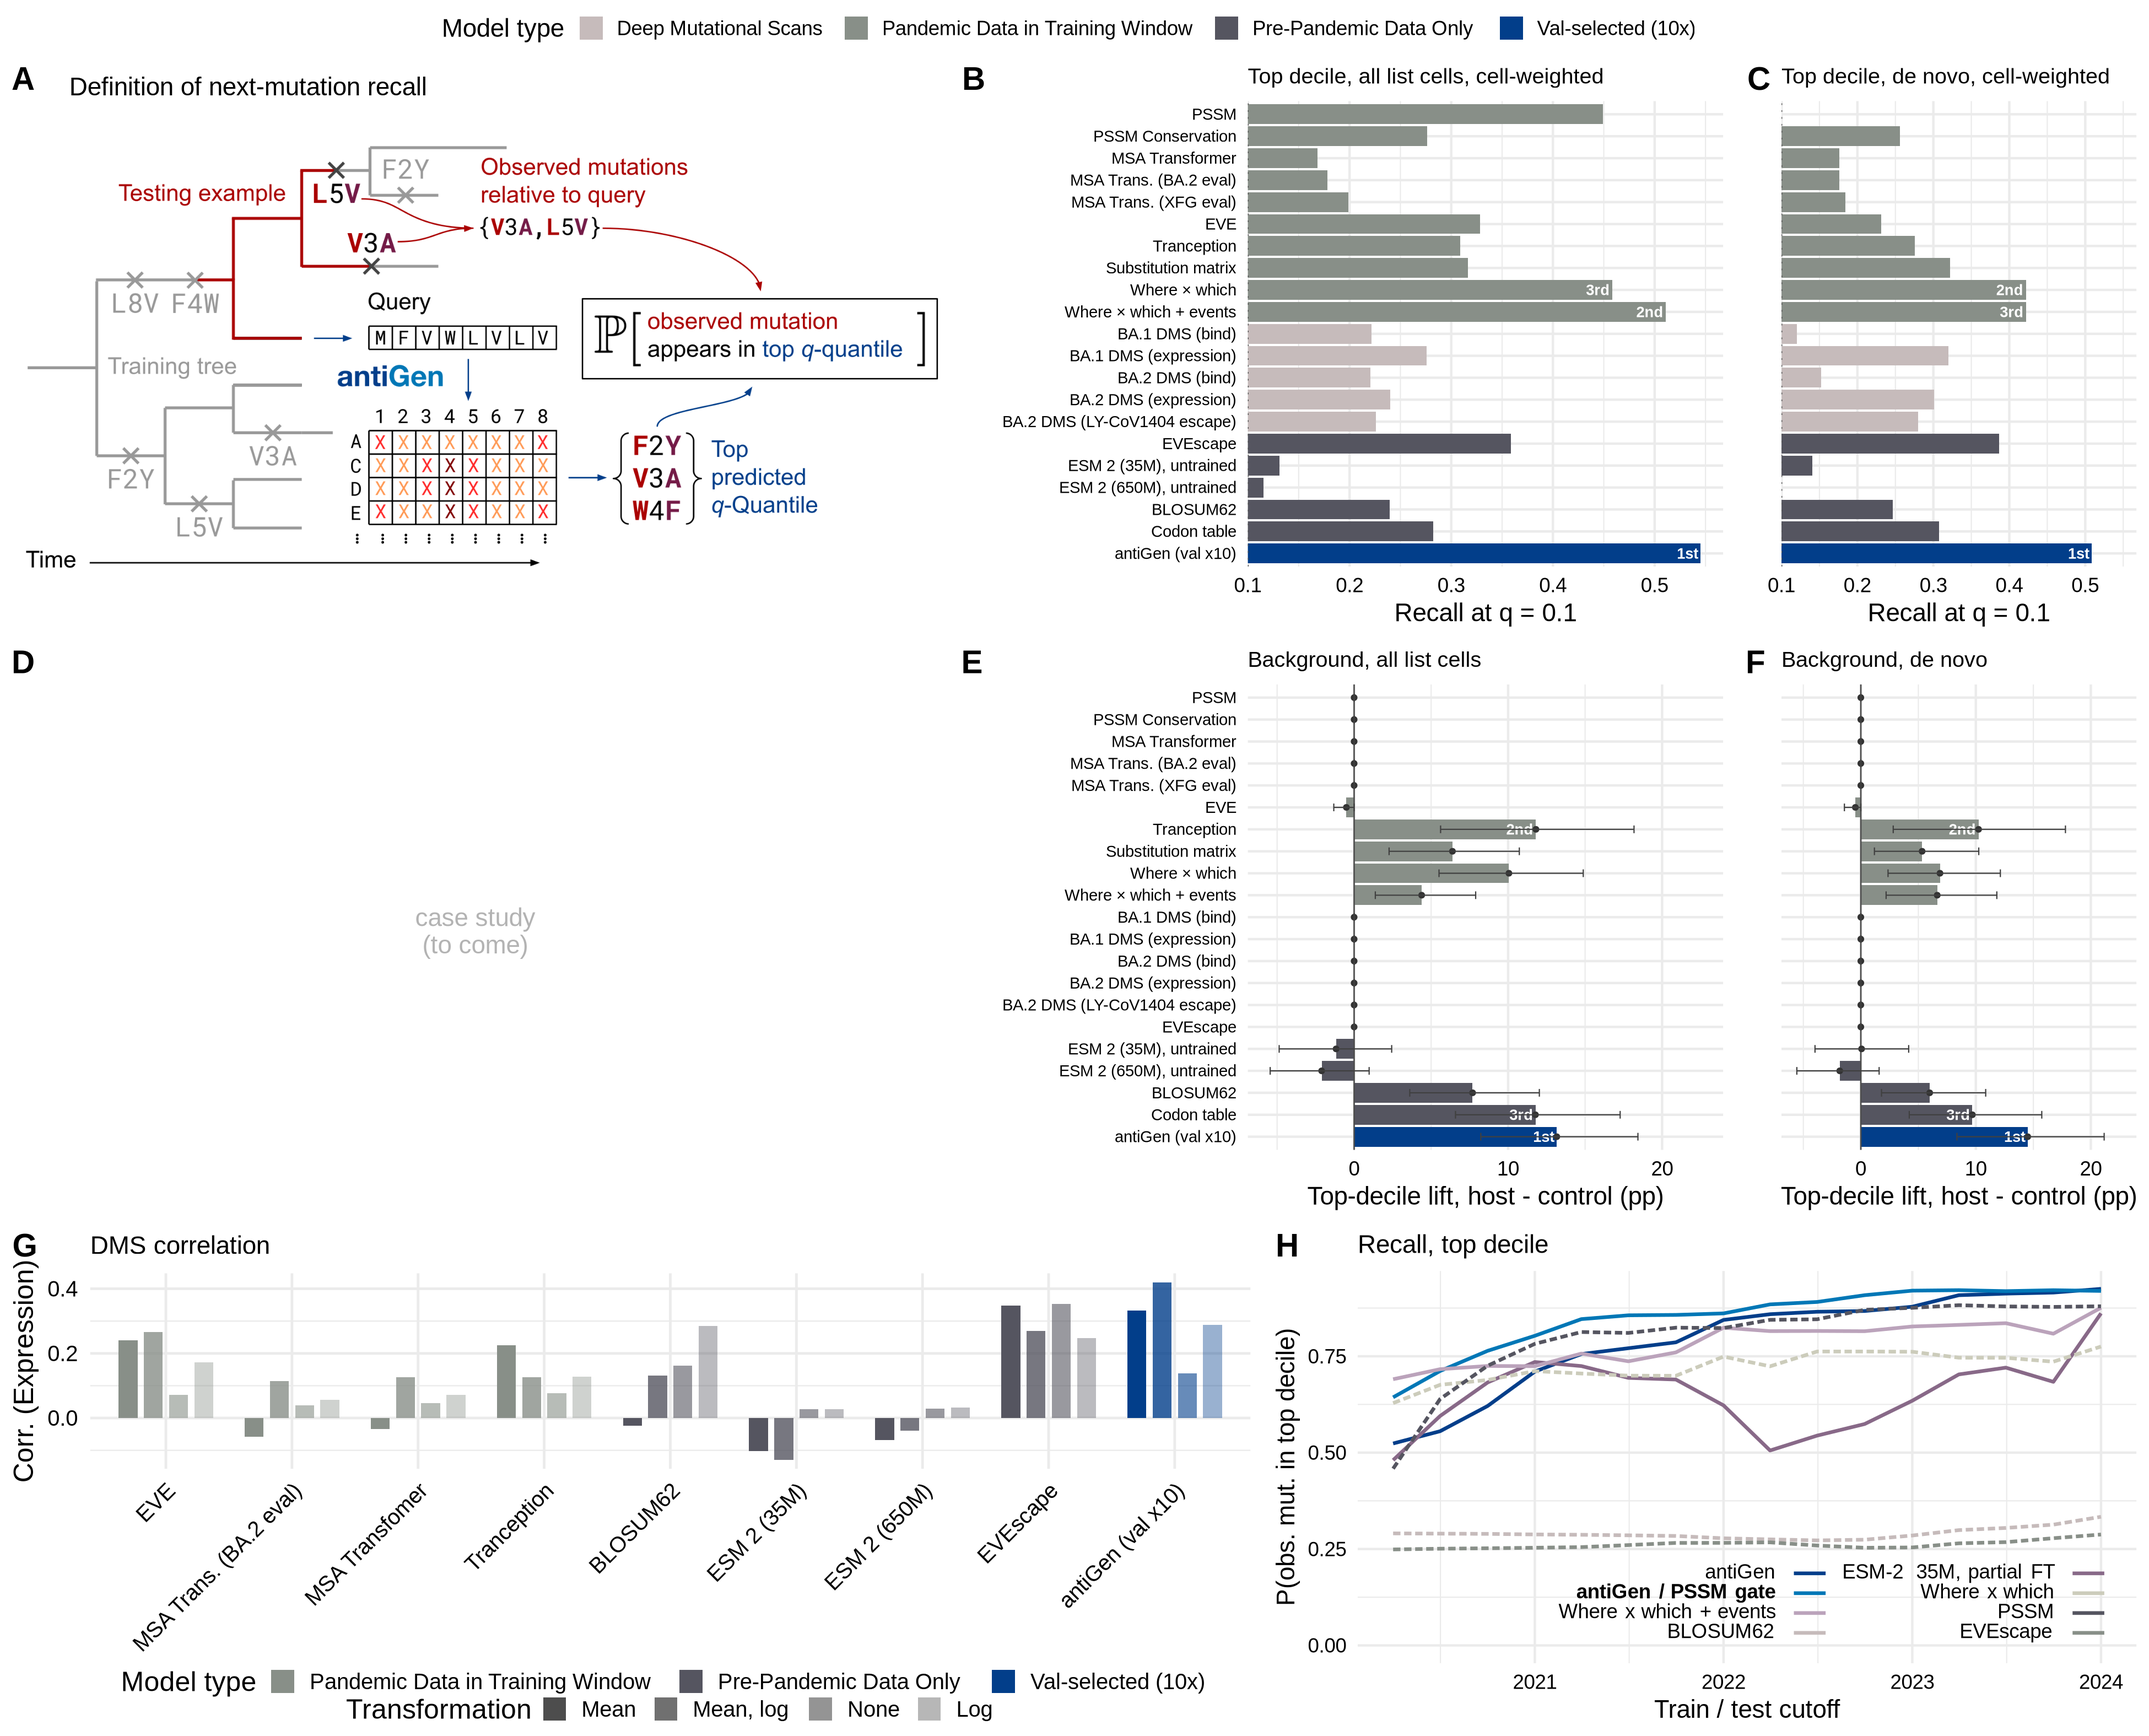
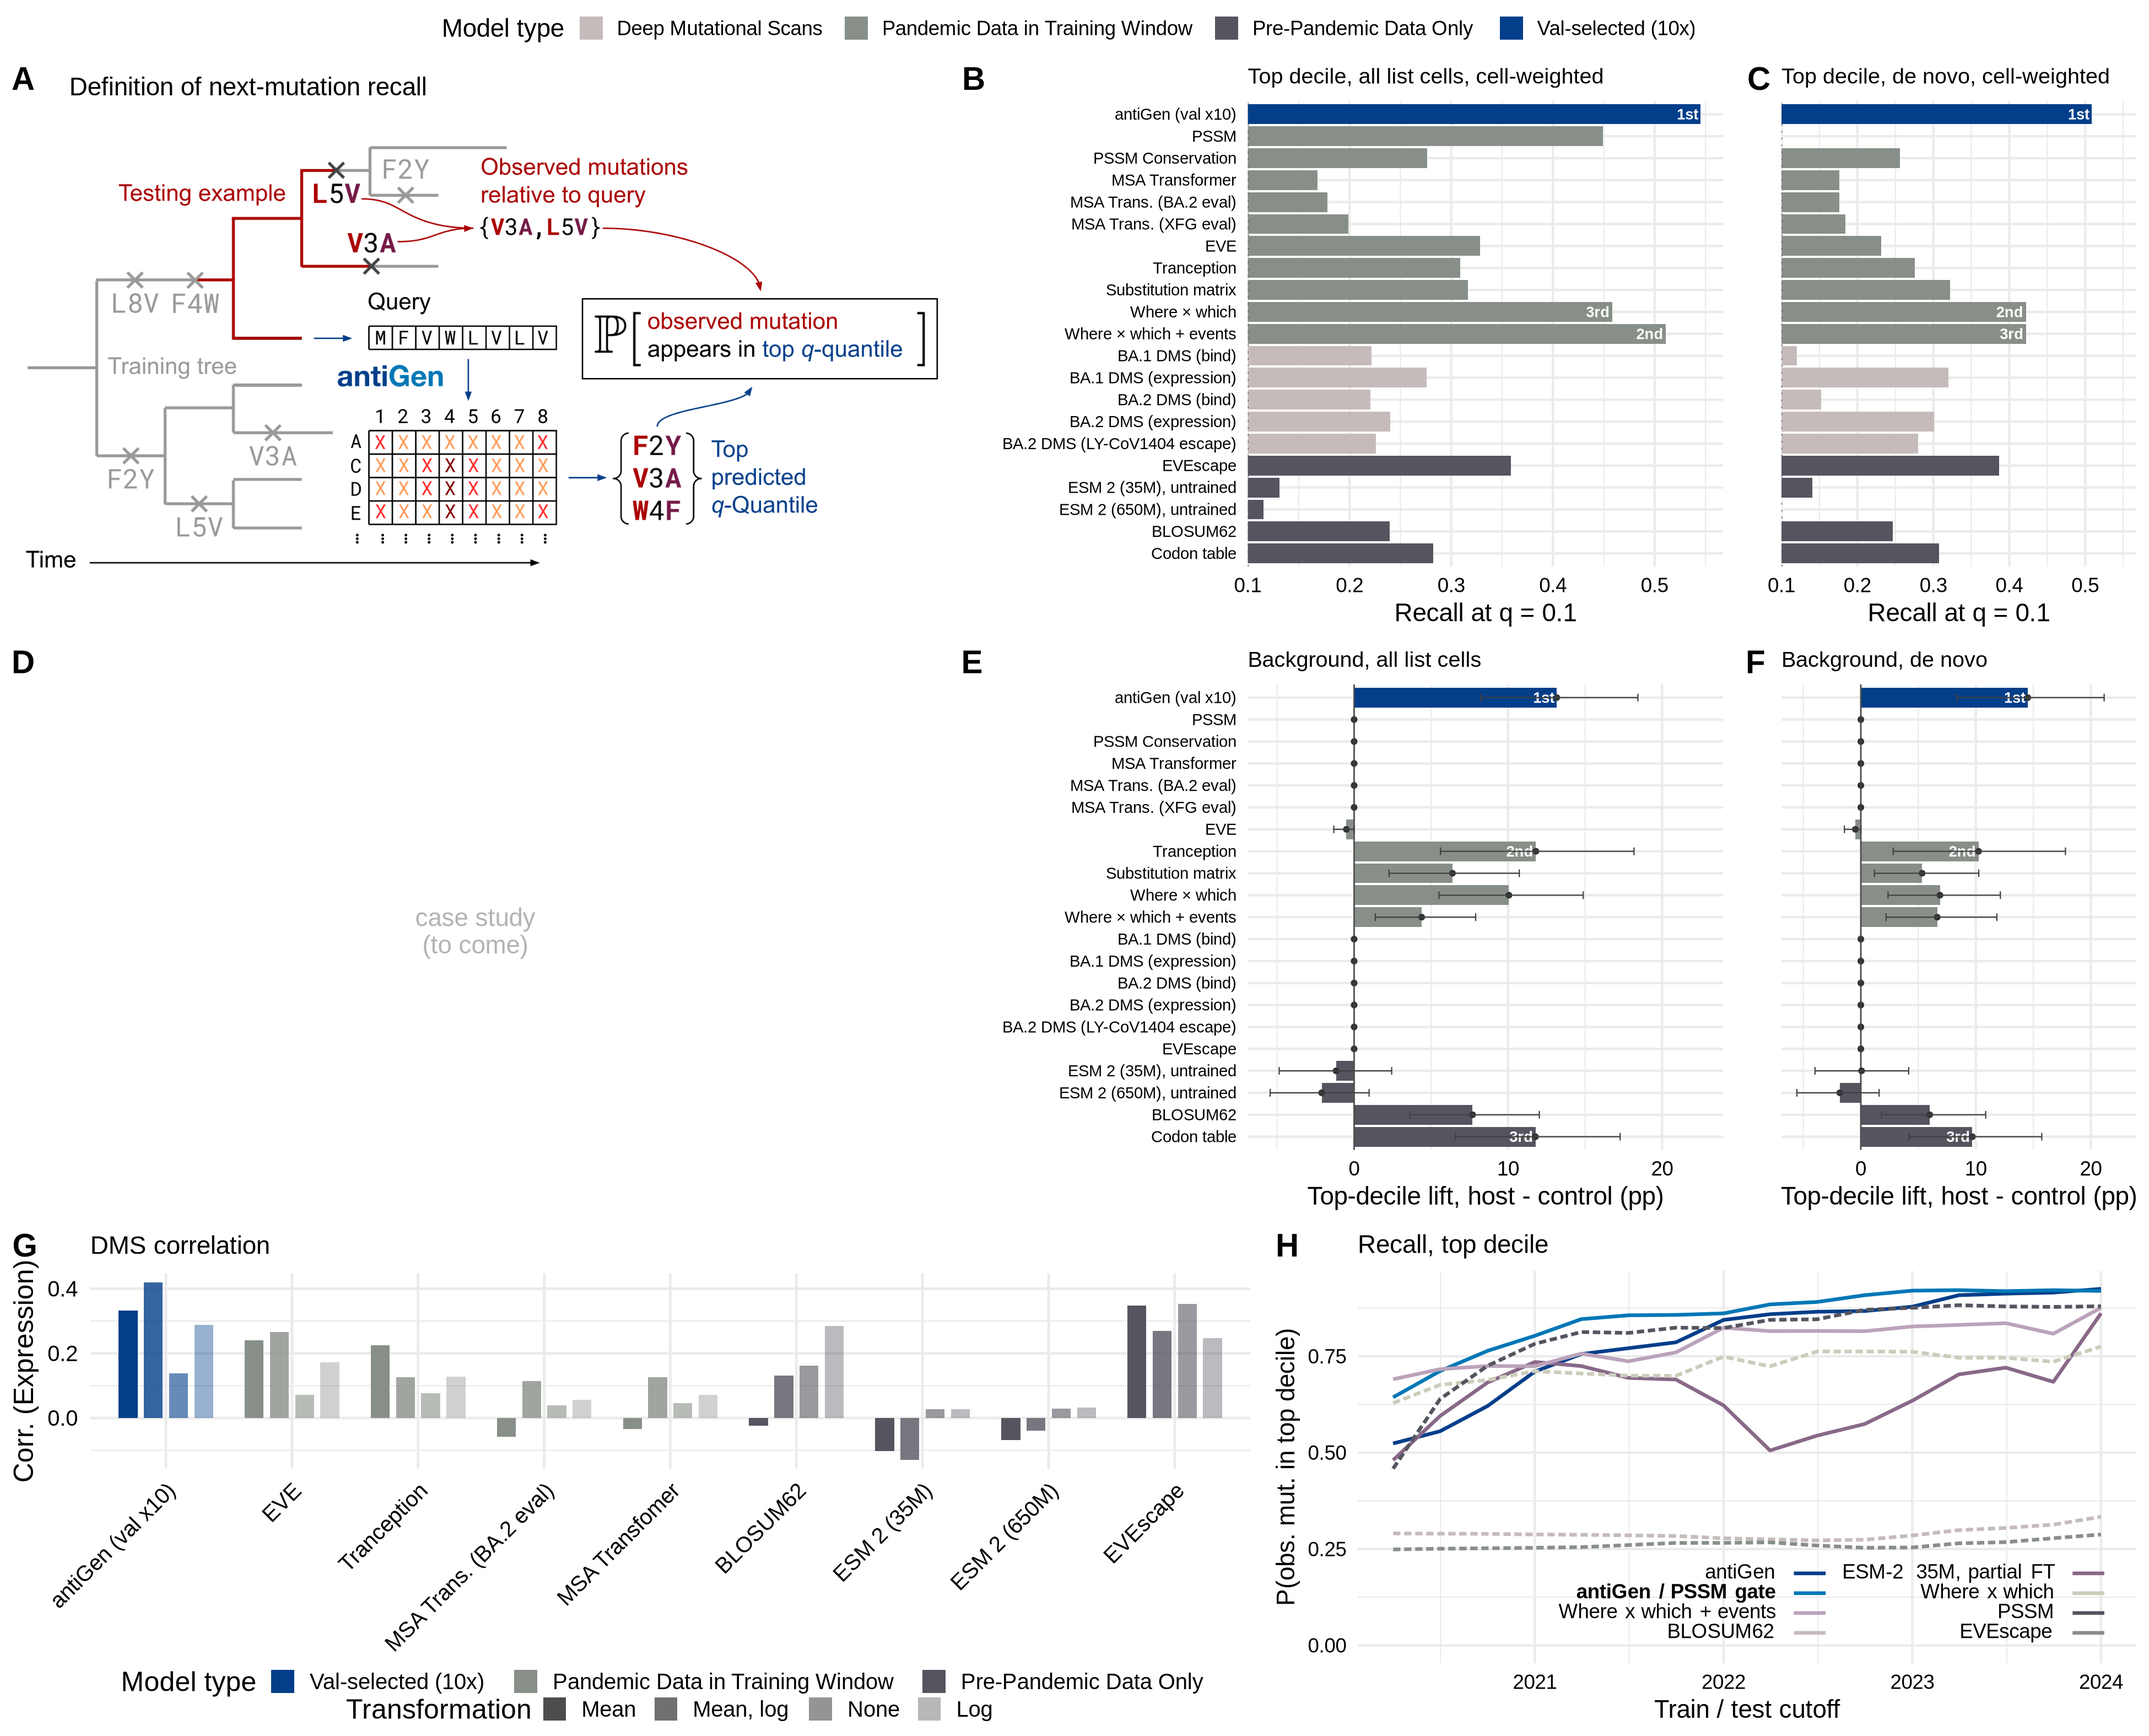
antiGen on top in B/C/E/F and first in G
bar_panel already pulled a named rung to the top, but the name was hard-coded to
"antiGen" -- which on a pruned roster matches nothing, so the intended rung sank
to the bottom. coguk.top_model makes it an option; coguk_list_results re-renders
byte-identical.

Panel G took two wrong attempts. Releveling model did nothing because the x order
is fct_reorder(model, as.integer(factor(group))) -- the group's position decides.
Moving the group to the front of MODEL_TYPE_LEVELS then moved the colours and not
the bars, because dms_long$group is a character vector, so factor() inside
fct_reorder sorts alphabetically while group_colors() reads MODEL_TYPE_LEVELS;
the two disagreed and the panel came back with the right bars in the wrong
colours. Setting the group as a factor in MODEL_TYPE_LEVELS order fixes the sort
and the palette together.

NOTES s87.

diff --git a/experiments/multitree/NOTES.md b/experiments/multitree/NOTES.md
@@ -10416,3 +10416,42 @@ wrapper loses to the wrapper's own `options()`.
 * `antiGen-figures/figures/fig_sc2_aa20.R` -- decimal-year `sc2.gate_x`, trimmed axis.
 * `antiGen-figures/figures/fig_sc2_revised.R` -- row order, canvas size.
 * `antiGen-figures/figures/panels_{coguk,sc2}_export.R` -- the renames.
+
+## 87. antiGen on top, and two orderings that are not the one you set (2026-10-27)
+
+On request: the val-selected rung goes to the top of the bar panels (B/C/E/F) and
+first on the DMS panel (G).
+
+### The bar panels already had the hook, under a hard-coded name
+
+`bar_panel` did `levels = rev(c("antiGen", setdiff(lev, "antiGen")))` -- a named rung
+pulled to the top. On a pruned roster where the base antiGen bar is gone, that name
+matches nothing and the intended rung sinks to wherever the inventory puts it, which
+for an appended ensemble rule is the bottom. `coguk.top_model` makes the name an
+option; the published default is unchanged and `coguk_list_results` re-renders
+byte-identical (`776aa91c`, `49cc10be`).
+
+### The DMS panel orders by GROUP, and its group is not a factor
+
+Two attempts failed before the cause was clear.
+
+* **Releveling `model` did nothing.** The x order is
+  `fct_reorder(model, as.integer(factor(group)))` (fig2:835) -- the GROUP's position
+  decides, and an appended group sorts last whatever the model levels say.
+* **Moving the group to the front of `MODEL_TYPE_LEVELS` moved the COLOURS and not
+  the bars.** `dms_long$group` is left a CHARACTER vector by the drawer, so
+  `factor(group)` inside `fct_reorder` sorts alphabetically, while `group_colors()`
+  reads its palette off `MODEL_TYPE_LEVELS`. The two orders disagreed and the panel
+  came back with the right bars in the wrong colours -- "Pandemic Data in Training
+  Window" drawn in antiGen's blue.
+
+The fix is to set the group as a FACTOR in `MODEL_TYPE_LEVELS` order, which fixes the
+sort and the palette together. Worth keeping as a shape: when a panel's order and its
+colours come from two different expressions of "the group", changing one of them is
+always wrong.
+
+### Code
+
+* `antiGen-figures/figures/fig_coguk_list.R` -- `coguk.top_model`.
+* `antiGen-figures/figures/panels_{coguk,sc2}_export.R` -- the top rung, the group
+  factor, the A/D column width.
